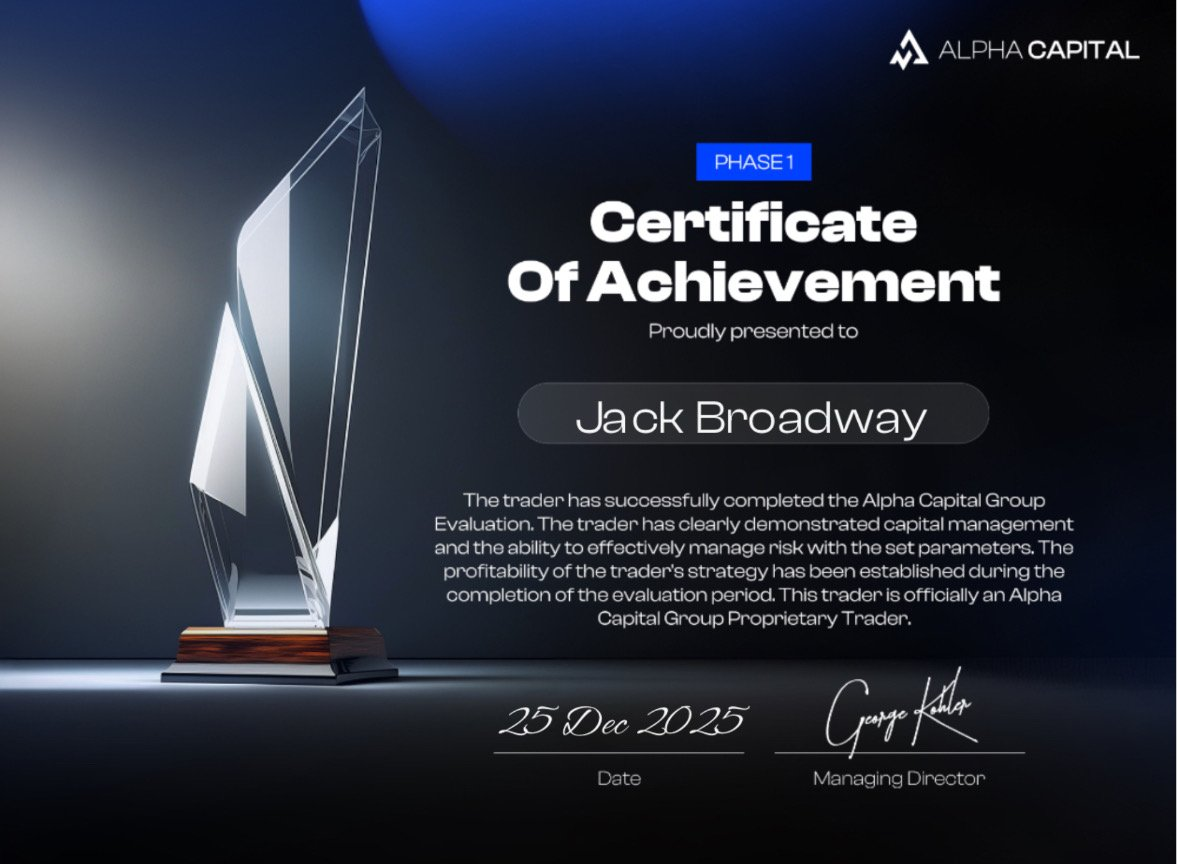
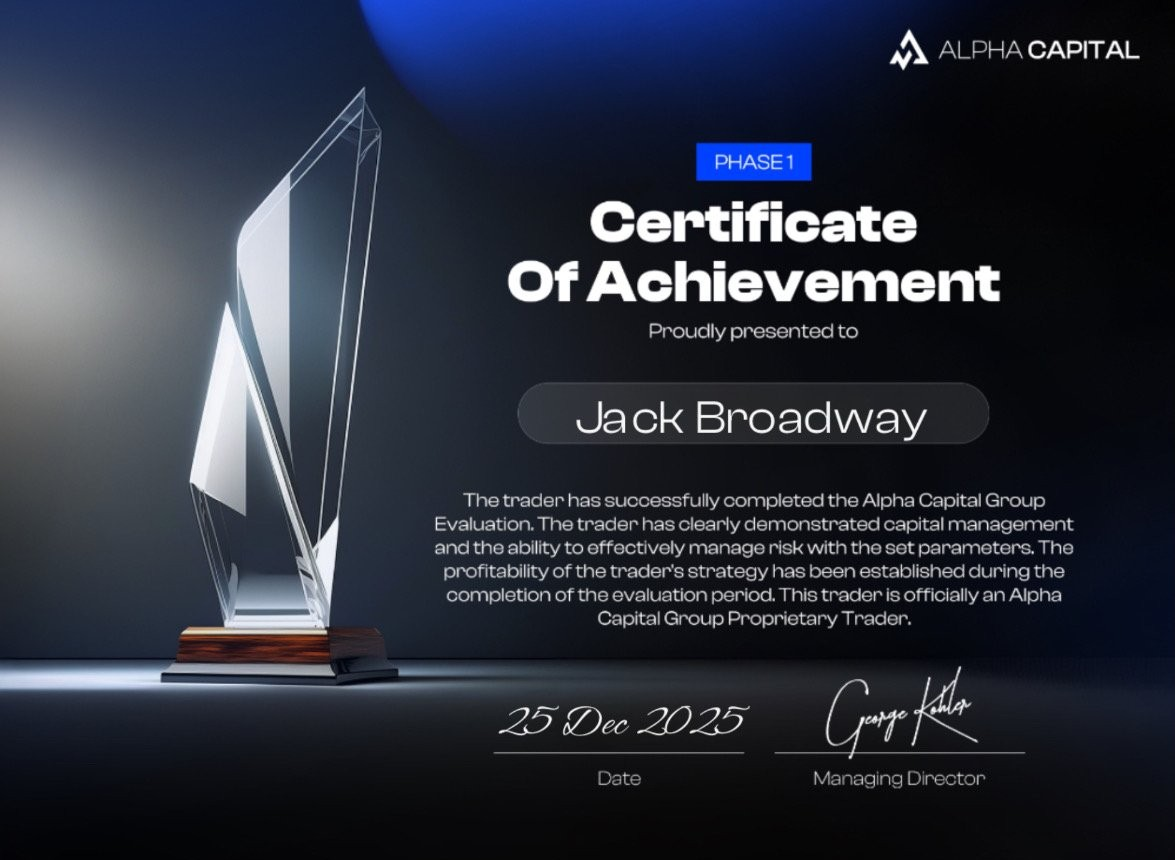
Group the Alpha Capital certs together, trim their white edge
Reordered the slider so both Alpha Capital certificates sit next to
each other instead of being split up by FTMO ones. Also cropped a
few stray pixels off the right/bottom edge of both Alpha Capital
images, where a thin white border was showing against the site's
dark cards.

diff --git a/components/Credibility.tsx b/components/Credibility.tsx
@@ -24,8 +24,14 @@ const CERTIFICATES = [
   {
     src: "/credibility/alpha-capital-verification.jpg",
     alt: "Alpha Capital Group Passed Verification certificate",
-    width: 1200,
-    height: 904,
+    width: 1196,
+    height: 900,
+  },
+  {
+    src: "/credibility/alpha-capital-phase1.jpg",
+    alt: "Alpha Capital Group Phase 1 Certificate of Achievement",
+    width: 1175,
+    height: 860,
   },
   {
     src: "/credibility/ftmo-challenge-2.jpg",
@@ -38,12 +44,6 @@ const CERTIFICATES = [
     alt: "FTMO Passed Verification certificate, 13 Oct 2025",
     width: 900,
     height: 900,
-  },
-  {
-    src: "/credibility/alpha-capital-phase1.jpg",
-    alt: "Alpha Capital Group Phase 1 Certificate of Achievement",
-    width: 1179,
-    height: 864,
   },
   {
     src: "/credibility/ftmo-challenge-3.jpg",
